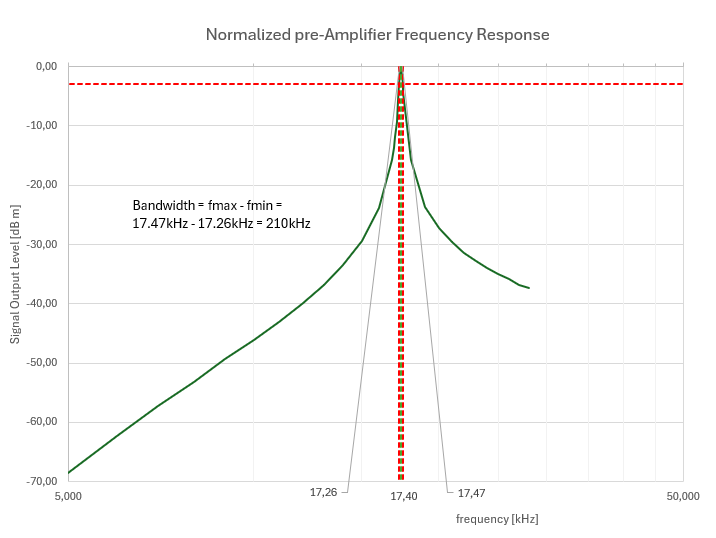
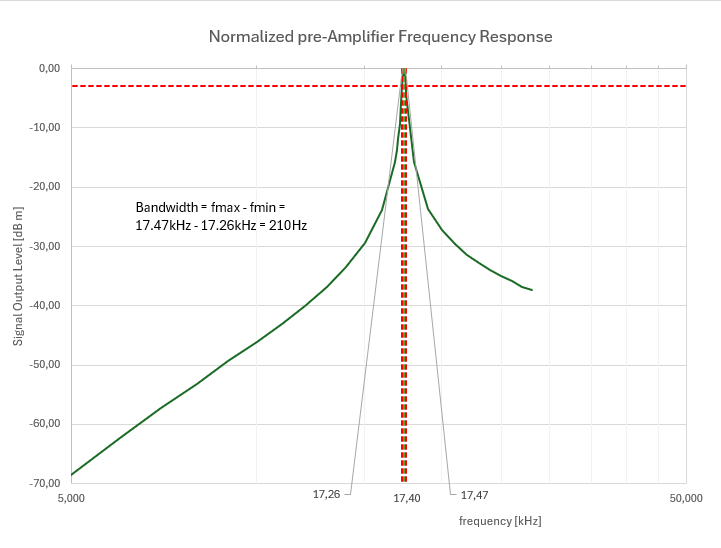
chapter potencjalne problemy modified

diff --git a/README_PL.md b/README_PL.md
@@ -66,6 +66,8 @@ Konstrukcja przedwzmacniacza została opisana na stronach Stowarzyszenia Przyjac
 <img src="./img/preamp/IMG_2357.jpg" width="400" height="300"/>
 </p>
 
+Jak można zauważyć w oparciu o powyższe ilustracje, wzmacniacz nie wprowadza tłumienia, poza pasmem przenoszwenia obwodu rezonansowego, co można z powodzeniem wykorzystać do odbioru stacji innych niż SAQ nadających na częstatliwościach nawet fal długich. Prezentowany układ pozwalił np. na stabilny odbiór sygnałów synchronizacji czasu NPL (60khz) oraz DCF-77 (77.5kHz). W tej samej lokalizacji odbiór tych sygnałów był bardzo niestabilny, a często nawet niemożliwy przy użyciu anteny typu "random wire" (w tym konkretnym przypadku długość elementu odbiorczego wynosiła ok. 13m) czy miniwhip.
+
 ## Strojenie przedwzmacniacza
 
 Do zestrojenia wzmacniacza na częstotliwość SAQ 17,2 kHz nie jest wymagane użycie specjalistycznej aparatury pomiarowej. Oczywiście możliwe jest wykorzystanie generatora funkcyjnego oraz oscyloskopu, jednak wystarczającą dokładność zapewnia obserwacja poziomu wzmocnienia szumów tła pochodzących z wejścia przedwzmacniacza pozostawionego bez podłączonej anteny. Jeżeli maksimum poziomu szumów występuje w pobliżu częstotliwości SAQ, można uznać, że układ został prawidłowo zestrojony. Należy przy tym uwzględnić, że obwód rezonansowy charakteryzuje się stosunkowo wąskim pasmem przenoszenia — w przedstawionej implementacji wynoszącym około 200 Hz — co wymaga dość precyzyjnego dostrojenia układu.
@@ -90,16 +92,22 @@ W przypadku strojenia przy użyciu generatora funkcjonalnego należy pamiętać 
 
 1) Brak kondensatorów odsprzęgających może skutkować wzbudzaniem się układu wzmacniaczy operacyjnych co w skrajnym przywadku może doprowadzić nawet do ich uszkodzenia w skótek przegrzania się. Efekt może występować poza zakresem częstotliwości VLF i nie być bezpośrednio widocznym na osyloskopie czy wodospadzie odbiornika SDR ustawionego na monitorowanie częstotliwości VLF.
 
-2) Strojenie za pomocą generatora funkcyjnego bezpośrednio przyłączonego do układu wejściowego przedwzmacniacza może prowadzić do zmiany charakterystyki obwodu i w efekcie przesunięcia częstotliwości rezonansu.
+2) Strojenie za pomocą generatora funkcyjnego bezpośrednio przyłączonego do układu wejściowego przedwzmacniacza  prowadzi do zmiany charakterystyki obwodu i w efekcie przesunięcia częstotliwości rezonansu w porównaniu do sytuacji, w której obciążeniem uzwojenia pierwotnego jest antena. Jest to podyktowane faktem, że impedancja uzwojenia pierwotnego z szeregowo przyłączoną niską impedancją generatora sygnałowego (o charakterze mocno rezystancyjnym) istotnie wpływa na reaktancję obwodu rezansowego, podwyższając jego częstotliwość rezonansową. 
+ 
+Początkowo nie byłem swiadomy tego zjawiska i aby przy podłączonym generatorze uzyskać szczyt wzmocnienia przypadający na częstotliwość 17.2kHz dodałem do kondenatora C2 (8n2) równolegle kondensator o wartości 22nF. Niestety tak jak to ukazuje poniższa symulacja oraz wyniki pomiarów, po zastąpieniu generatora anteną , częstotliwość rezonansowa obwodu ulegała obniżeniu...
+
+<p align="center">
+<img src="./meas/_30dBmInputSignal_Decimation32_34_2nF_SDR_Uno.png" width="400" height="300"/>
+<img src="./img/measurement_issue/measurement_issue.png" width="600" height="400"/>
+</p>
+
+Usunięcie dodatkowego kondensatora 22nF, pozwoliło na uzyskanie poprawnego zestrojenia układu na częstotliwość 17.2kHz z przyłączoną anteną.
 
 <p align="center">
 <img src="./meas/_30dBmInputSignal_Decimation32_2n2_SDR_Uno.png" width="400" height="300"/>
-<img src="./meas/_30dBmInputSignal_Decimation32_34_2nF_SDR_Uno.png" width="400" height="300"/>
 </p>
 
-<p align="center">
-<img src="./img/measurement_issue/measurement_issue.png" width="600" height="400"/>
-</p>
+Należy dodać, że podczas testów sygnał SAQ był symulowany przez nośną z generatora sygnałowego do którego wyjścia przyłączony został przewód pełniący rolę prostej anteny. Poziom sygnału wyjściowego generatora w tym scenariouszu testowym był ustawiony na maksymalną wartość.
 
 # Oprogramowanie
 
